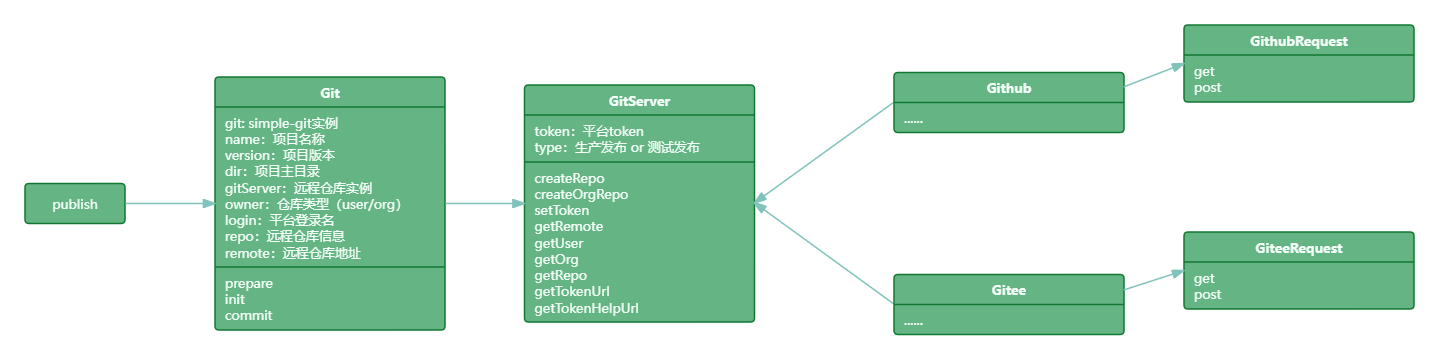
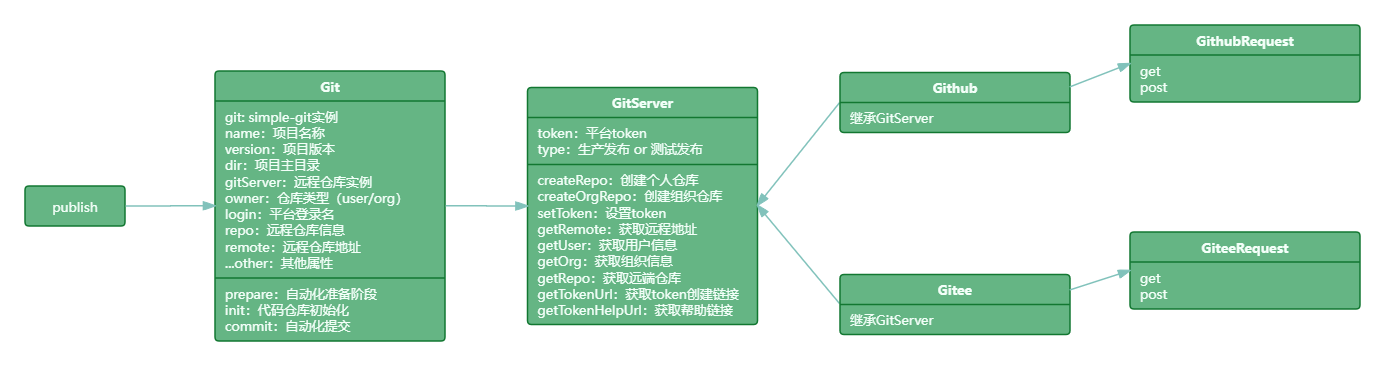
feat: 新增add命令架构图

Changed region(s): [[0.0, 0.1838, 0.5899, 0.9499], [0.5899, 0.6128, 0.9935, 0.9499], [0.5899, 0.0613, 0.9935, 0.3983]]

diff --git a/docs/framework/commands.md b/docs/framework/commands.md
@@ -12,6 +12,10 @@
 
 高清源文件预览我放在这里了 [publish架构设计图](https://www.processon.com/view/link/674424e8a1c0ad5bcd78de60)
 
+::: tip
+`publish` 整体流程比较复杂，涉及到前后端完整交互，可结合 [脚手架发布流程设计](./README.md#脚手架发布流程设计) 、[脚手架Git Flow自动化流程设计](./README.md#脚手架git-flow自动化流程设计) 一起来理解。
+:::
+
 ## rollback流程架构设计图
 
 ![rollback架构设计图](../../docs/.vuepress/public/images/rollback-framework.png)
@@ -19,3 +23,7 @@
 高清源文件预览我放在这里了 [rollback架构设计图](https://www.processon.com/view/link/6744318da1c0ad5bcd7905b8)
 
 ## add流程架构设计图
+
+![add架构设计图](../../docs/.vuepress/public/images/add-framework.png)
+
+高清源文件预览我放在这里了 [add架构设计图](https://www.processon.com/view/link/674599fdf3d7a61e5dea1c48)
